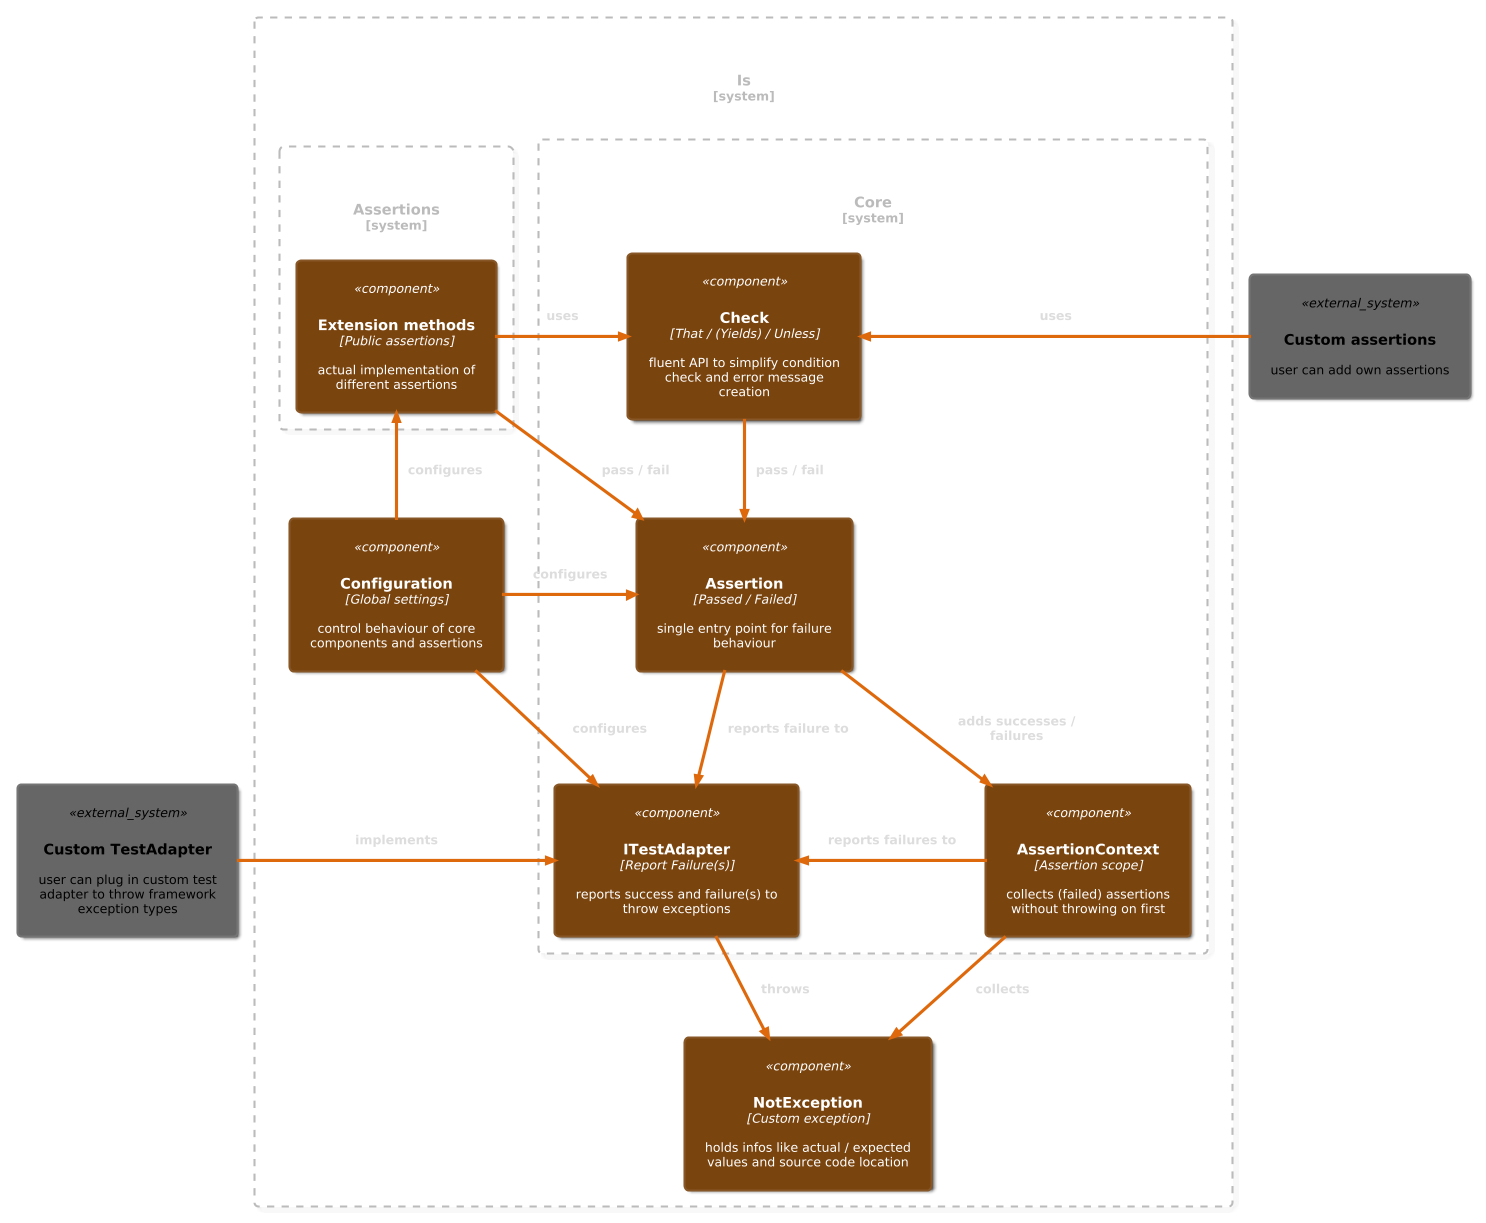
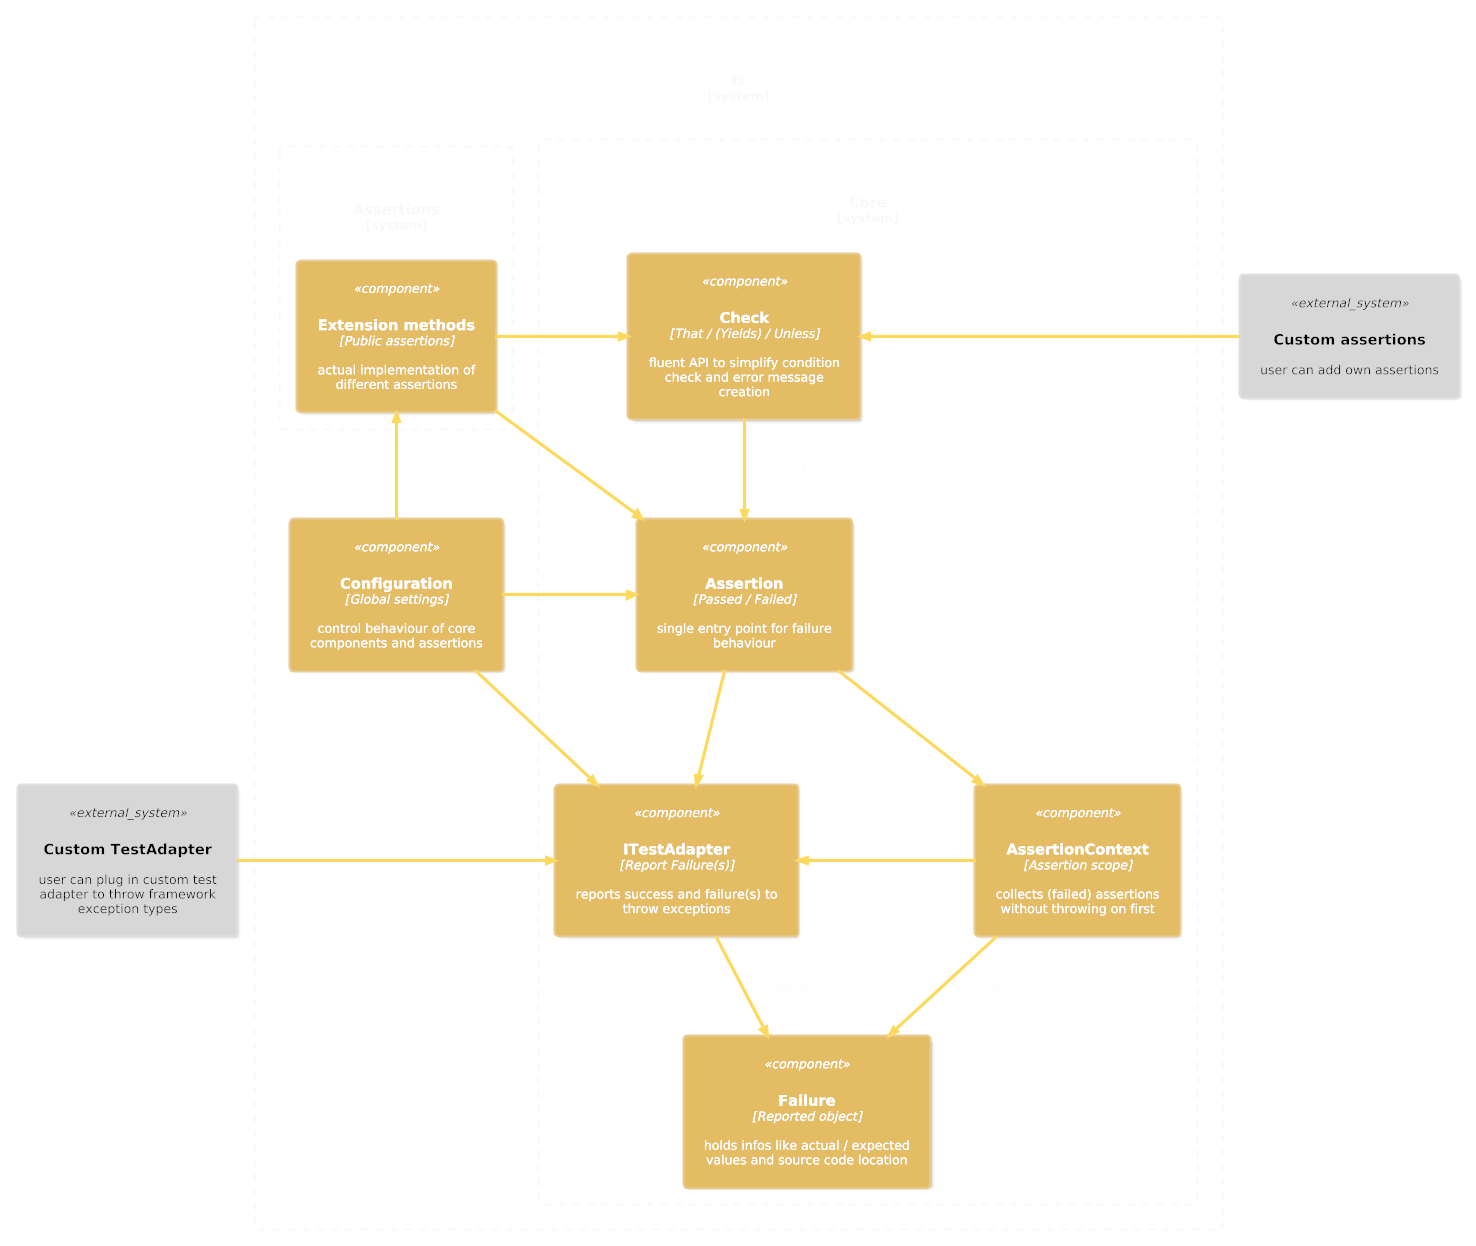
Update Docu

diff --git a/Is/Core/ITestAdapter.cs b/Is/Core/ITestAdapter.cs
@@ -19,6 +19,10 @@ public interface ITestAdapter
 	void ReportFailures(string message, List<Failure> failures);
 }
 
+/// <summary>
+/// Provides a default implementation of the ITestAdapter interface.
+/// Throws exceptions for test failures, specifically NotException for single failures and AggregateException for multiple failures.
+/// </summary>
 public class DefaultTestAdapter : ITestAdapter
 {
 	public void ReportSuccess() { }
@@ -30,6 +34,11 @@ public class DefaultTestAdapter : ITestAdapter
 		throw new AggregateException(message, failures.Select(f => new NotException(f)));
 }
 
+/// <summary>
+/// A test adapter implementation that suppresses specific output for test assertions.
+/// Provides minimal reporting behaviour by silencing failure messages.
+/// Serves as a silent alternative to more verbose test adapters.
+/// </summary>
 public class SilentTestAdapter : ITestAdapter
 {
 	public void ReportSuccess() { }

diff --git a/Is/Core/Assertion.cs b/Is/Core/Assertion.cs
@@ -1,5 +1,4 @@
-using System.Collections.Concurrent;
-using System.Diagnostics;
+using System.Diagnostics;
 using System.Reflection;
 using Is.Tools;
 
@@ -23,10 +22,10 @@ internal static class Assertion
 	{
 		var failure = new Failure(message, actual, expected);
 
-		if (!AssertionContext.IsActive)
+		if (AssertionContext.IsActive)
+			AssertionContext.Current?.AddFailure(failure);
+		else
 			Configuration.Active.TestAdapter.ReportFailure(failure);
-
-		AssertionContext.Current?.AddFailure(failure);
 
 		return default;
 	}

diff --git a/Is/Core/Failure.cs b/Is/Core/Failure.cs
@@ -5,6 +5,11 @@ using Is.Tools;
 
 namespace Is.Core;
 
+/// <summary>
+/// Represents a failure encountered during an assrtion or test execution.
+/// Contains detailed information about the failure, including message, actual
+/// and expected values, assertion details, and location in source code.
+/// </summary>
 [DebuggerStepThrough]
 public class Failure
 {

diff --git a/Is/NotException.cs b/Is/NotException.cs
@@ -4,10 +4,4 @@ using System.Diagnostics;
 namespace Is;
 
 [DebuggerStepThrough]
-public class NotException(Failure failure) : Exception(failure.Message)
-{
-	/// <summary>
-	/// The failure that caused the assertion to fail.
-	/// </summary>
-	public Failure Failure => failure;
-}
+public class NotException(Failure failure) : Exception(failure.Message);

diff --git a/Is/Configuration.cs b/Is/Configuration.cs
@@ -1,8 +1,6 @@
-using System.Diagnostics;
+using Is.Core;
+using System.Diagnostics;
 using System.Reflection;
-using System.Text.Json.Serialization;
-using Is.Core;
-using Is.Tools;
 
 namespace Is;
 

diff --git a/Docs/Is.md b/Docs/Is.md
@@ -9,8 +9,6 @@ Global configurations that control assertion behaviour
 - __`FloatingPointComparisonPrecision`__: _Comparison precision used for floating point comparisons if not specified specifically. Default is 1e-6 (0.000001)._
 - __`MaxRecursionDepth`__: _Controls the maximum depth of recursion when parsing deeply nested objects. Default is 20._
 - __`ParsingFlags`__: _Controls the binding flags to use when parsing deeply nested objects. Default is public | non-public | instance._
-#### <u>NotException</u>
-- __`Failure`__: _The failure that caused the assertion to fail._
 ## Is.Assertions
 All assertions are implemented as extension methods.
 #### <u>Booleans</u>
@@ -89,6 +87,16 @@ Offers a fluent API to assert conditions and create return values and error mess
 - __`That(condition)`__: _Evaluates a boolean condition._
 - __`Yields<TResult>(result)`__: _Projects a result from the original value if the initial predicate condition was true._
 - __`Unless(actual, message, other)`__: _Returns the result if the condition is true; otherwise, triggers a failure with a message._
+#### <u>Failure</u>
+Represents a failure encountered during an assrtion or test execution. Contains detailed information about the failure, including message, actual and expected values, assertion details, and location in source code.
+- __`Message`__: _The failure message._
+- __`Actual`__: _The actual value that caused the assertion to fail._
+- __`Expected`__: _The expected value that was compared during the assertion and caused the failure._
+- __`Assertion`__: _The name of the assertion that failed._
+- __`Method`__: _The name of the method that called the assertion, or null if unavailable._
+- __`File`__: _The name of the file in which the exception occurred, if available._
+- __`Line`__: _The line number in the source file where the exception occurred._
+- __`Code`__: _The specific line of source code of the assertion failure._
 #### <u>IsAssertionAttribute</u>
 Mark custom assertion methods with this attribute to enable proper code line detection.
 #### <u>IsAssertionsAttribute</u>
@@ -98,15 +106,10 @@ Represents an interface for handling test result reporting. Serves as a hook for
 - __`ReportSuccess()`__: _Reports a successful test result to the configured test adapter._
 - __`ReportFailure(failure)`__: _Reports a failed test result to the configured test adapter._
 - __`ReportFailures(message, failures)`__: _Reports multiple test failures to the configured test adapter._
-#### <u>Failure</u>
-- __`Message`__: _The failure message._
-- __`Actual`__: _The actual value that caused the assertion to fail._
-- __`Expected`__: _The expected value that was compared during the assertion and caused the failure._
-- __`Assertion`__: _The name of the assertion that failed._
-- __`Method`__: _The name of the method that called the assertion, or null if unavailable._
-- __`File`__: _The name of the file in which the exception occurred, if available._
-- __`Line`__: _The line number in the source file where the exception occurred._
-- __`Code`__: _The specific line of source code of the assertion failure._
+#### <u>DefaultTestAdapter</u>
+Provides a default implementation of the ITestAdapter interface. Throws exceptions for test failures, specifically NotException for single failures and AggregateException for multiple failures.
+#### <u>SilentTestAdapter</u>
+A test adapter implementation that suppresses specific output for test assertions. Provides minimal reporting behaviour by silencing failure messages. Serves as a silent alternative to more verbose test adapters.
 ## Is.Tools
 #### <u>JsonFileHelper</u>
 - __`SaveJson<T>(obj, filename)`__: _Serializes an object `obj` to a JSON file to `filename`_
